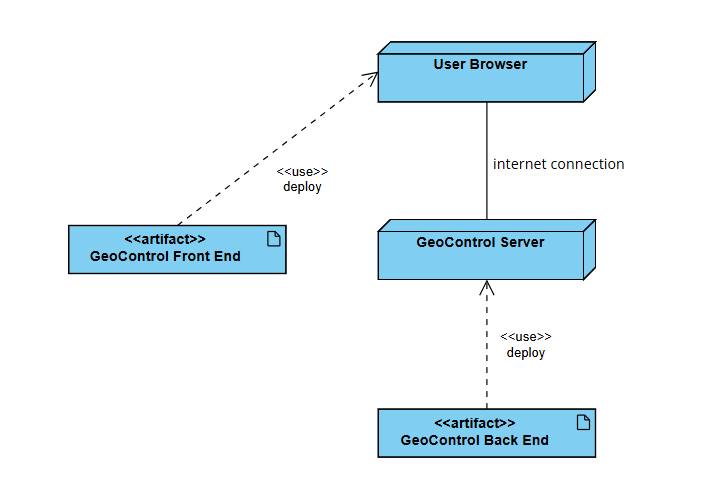
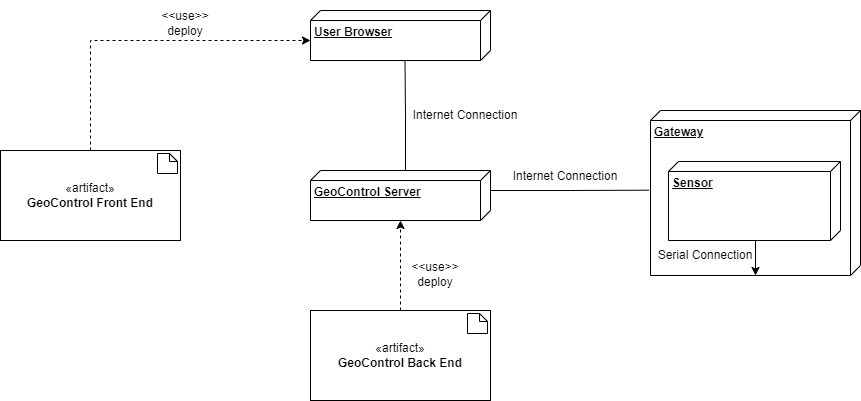
Added Extended Diagrams

diff --git a/doc/Requirements.md b/doc/Requirements.md
@@ -684,9 +684,9 @@ GeoControl has been commissioned by the Union of Mountain Communities of the Pie
 
 # System Design
 
-# System Design - GeoControl
+![geocontrol-systemdesign](img/English-SystemDesign.png)
 
-## Description
+### Description
 
 The **GeoControl System**, initially represented as a black box in the Context Diagram, is now described in terms of its internal components, highlighting how it interacts with various external actors in a structured and coherent way.
 
@@ -723,7 +723,7 @@ The **GeoControl System**, initially represented as a black box in the Context D
 
 ## Overview (Component View, Informal)
 
-![geocontrol-systemdesign](img/English-SystemDesign.png)
+![geocontrol-systemdesignextended](img/English-SystemDesignExtended.png)
 
 ## Functional Requirements Supported by the System Design
 
